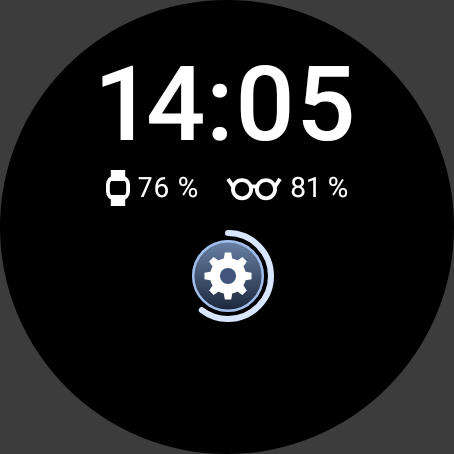
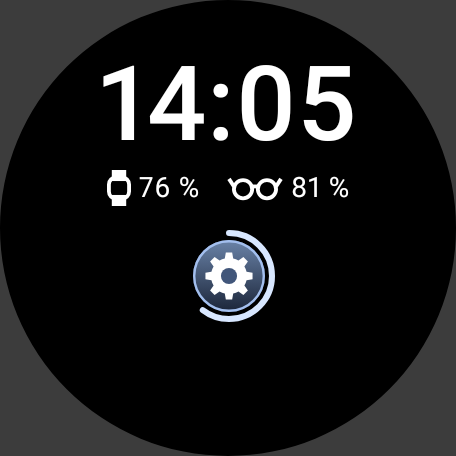
Target the Pixel Watch 5 (45 mm, LTE)
- Screen tests and screenshots at the watch's round 456 px face
  (228 dp, xhdpi) instead of 454 px
- README: the app is laid out for the Pixel Watch 5 with Wear OS 7
  (API 37, the app's target SDK); with LTE it downloads Even's image
  without phone or Wi-Fi

Claude-Session: https://claude.ai/code/session_01HuvMy7K9HZjcvpoyqKZXXz

diff --git a/app/src/test/java/ch/madtreasures/g2watch/ui/WatchSnapshotTest.kt b/app/src/test/java/ch/madtreasures/g2watch/ui/WatchSnapshotTest.kt
@@ -43,7 +43,7 @@ import org.robolectric.annotation.Config
 import org.robolectric.annotation.GraphicsMode
 
 /**
- * Pictures of the watch screens on a round 454 px face (Pixel Watch size class), for checking
+ * Pictures of the watch screens on the round 456 px face of the Pixel Watch 5 (45 mm), for checking
  * the layout without a watch:
  *
  *     ./gradlew :app:testDebugUnitTest --tests '*WatchSnapshotTest*' -PsnapshotDir=$PWD/docs/bilder
@@ -53,7 +53,7 @@ import org.robolectric.annotation.GraphicsMode
  */
 @RunWith(RobolectricTestRunner::class)
 @GraphicsMode(GraphicsMode.Mode.NATIVE)
-@Config(sdk = [35], qualifiers = "de-rDE-w227dp-h227dp-round-watch-xhdpi", application = android.app.Application::class)
+@Config(sdk = [35], qualifiers = "de-rDE-w228dp-h228dp-round-watch-xhdpi", application = android.app.Application::class)
 class WatchSnapshotTest {
     @get:Rule
     val compose = createComposeRule()

diff --git a/app/src/test/java/ch/madtreasures/g2watch/ui/TouchpadScreenTest.kt b/app/src/test/java/ch/madtreasures/g2watch/ui/TouchpadScreenTest.kt
@@ -38,7 +38,7 @@ import kotlin.math.roundToInt
 /** The touchpad with real touch input on a rendered round watch face (Robolectric, native graphics). */
 @RunWith(RobolectricTestRunner::class)
 @GraphicsMode(GraphicsMode.Mode.NATIVE)
-@Config(sdk = [35], qualifiers = "de-rDE-w227dp-h227dp-round-watch-xhdpi", application = android.app.Application::class)
+@Config(sdk = [35], qualifiers = "de-rDE-w228dp-h228dp-round-watch-xhdpi", application = android.app.Application::class)
 class TouchpadScreenTest {
     @get:Rule
     val compose = createComposeRule()

diff --git a/app/src/test/java/ch/madtreasures/g2watch/ui/SettingsScreenTest.kt b/app/src/test/java/ch/madtreasures/g2watch/ui/SettingsScreenTest.kt
@@ -31,7 +31,7 @@ import org.robolectric.annotation.GraphicsMode
 /** Settings and the firmware pages on a rendered round watch face (Robolectric). */
 @RunWith(RobolectricTestRunner::class)
 @GraphicsMode(GraphicsMode.Mode.NATIVE)
-@Config(sdk = [35], qualifiers = "de-rDE-w227dp-h227dp-round-watch-xhdpi", application = android.app.Application::class)
+@Config(sdk = [35], qualifiers = "de-rDE-w228dp-h228dp-round-watch-xhdpi", application = android.app.Application::class)
 class SettingsScreenTest {
     @get:Rule
     val compose = createComposeRule()

diff --git a/app/src/test/java/ch/madtreasures/g2watch/ui/HoldWithoutAnimationsTest.kt b/app/src/test/java/ch/madtreasures/g2watch/ui/HoldWithoutAnimationsTest.kt
@@ -23,7 +23,7 @@ import org.robolectric.annotation.GraphicsMode
  */
 @RunWith(RobolectricTestRunner::class)
 @GraphicsMode(GraphicsMode.Mode.NATIVE)
-@Config(sdk = [35], qualifiers = "de-rDE-w227dp-h227dp-round-watch-xhdpi", application = android.app.Application::class)
+@Config(sdk = [35], qualifiers = "de-rDE-w228dp-h228dp-round-watch-xhdpi", application = android.app.Application::class)
 class HoldWithoutAnimationsTest {
     @get:Rule
     val compose = createComposeRule(object : MotionDurationScale {

diff --git a/README.md b/README.md
@@ -126,7 +126,11 @@ curl -o g2_2.3.0.24.bin https://cdn.evenreal.co/firmware/1dbdf37b03a1169c384945e
 adb push g2_2.3.0.24.bin /sdcard/Android/data/ch.madtreasures.g2watch/files/firmware/
 ```
 
-Vorausgesetzt ist Wear OS 4 (API 33) oder neuer, z. B. eine Pixel Watch.
+Vorausgesetzt ist Wear OS 4 (API 33) oder neuer. Ausgelegt ist die App auf die **Pixel Watch 5
+(45 mm, LTE)** mit Wear OS 7 (Android 17, API 37, das Ziel-SDK der App); die Bilder in
+[`docs/bilder`](docs/bilder) zeigen ihren runden 456-px-Bildschirm. Mit LTE lädt die Uhr Evens Firmware
+(4,5 MB) auch ohne Handy und WLAN, und am Handy darf Bluetooth für das Aufspielen aus sein, ohne dass
+die Uhr offline ist.
 
 ## Projektaufbau
 

diff --git a/docs/FIRMWARE.md b/docs/FIRMWARE.md
@@ -98,7 +98,7 @@ die Regeln aus [`firmware-uebergabe/01_Custom-Firmware_erstellen.md`](firmware-u
 
 ## 6. Offene Punkte für den ersten Hardware-Versuch
 
-- Bluetooth der Pixel Watch: welche MTU sie aushandelt und wie schnell sie überträgt, ist unbekannt.
+- Bluetooth der Pixel Watch 5: welche MTU sie aushandelt und wie schnell sie überträgt, ist unbekannt.
   Ist die MTU zu klein, bricht die App vor dem ersten Byte ab und nennt sie (Protokoll: „MTU … after
   the exchange“).
 - Ob Wear OS beim Koppeln einen Dialog zeigt, ist ungeprüft; die App wartet bis zu 90 s.
